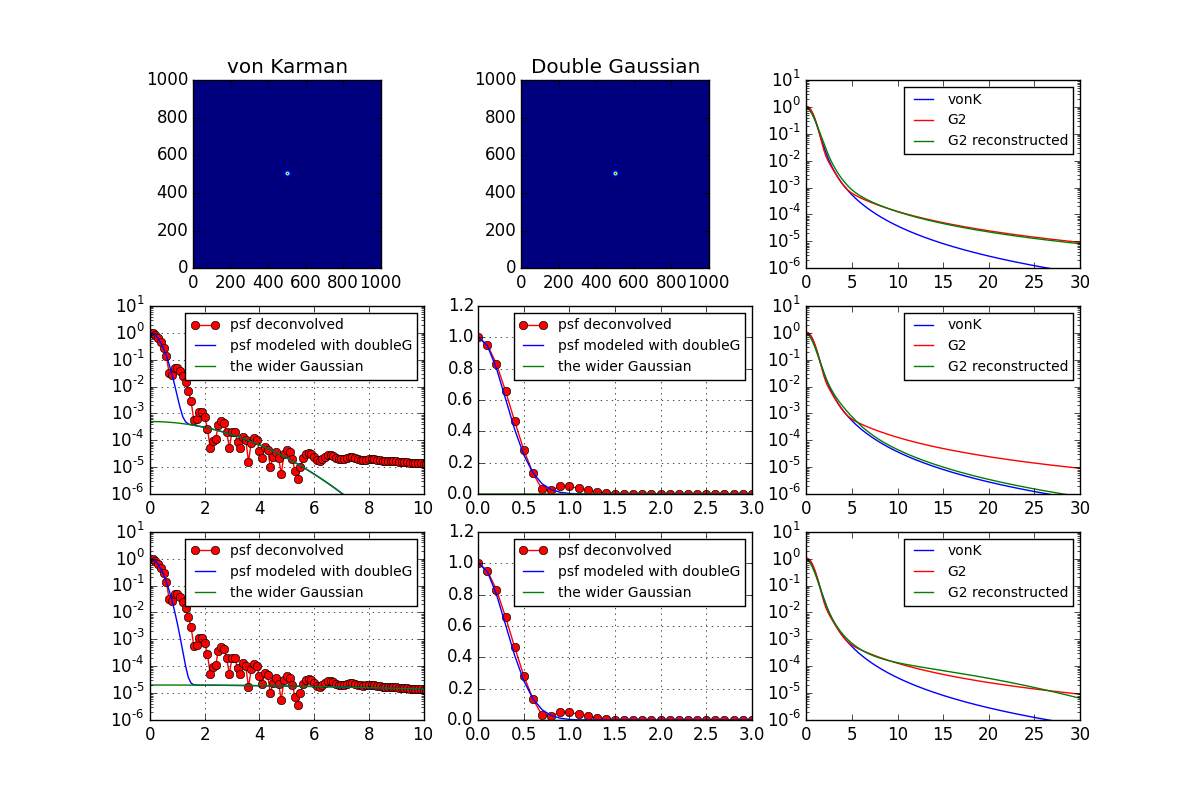
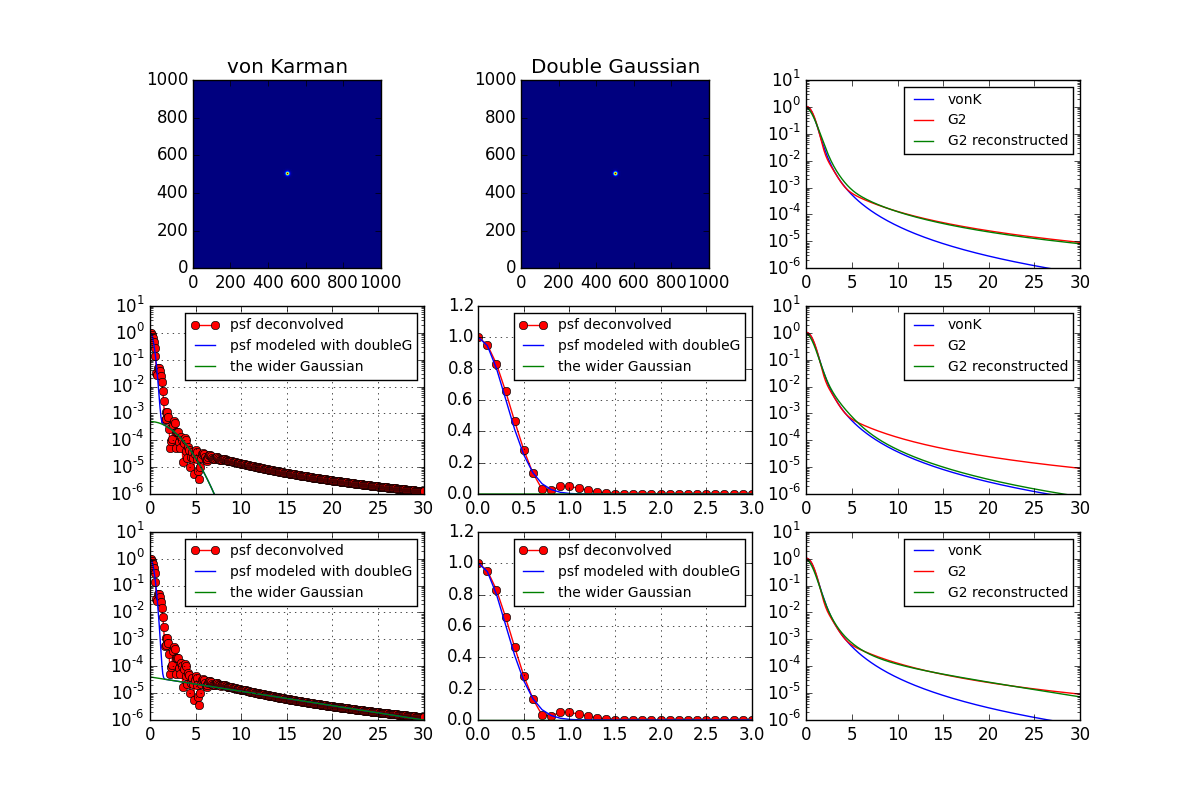
deconvVK.py: wide G -> log(y)=ax+b

diff --git a/analysis/source/deconvVK.py b/analysis/source/deconvVK.py
@@ -72,12 +72,25 @@ for ip in range(2):
     if ip == 0:
         A1=5e-4
         sigma1 = 2
+        G1 = A1*np.exp(-x*x/2/sigma1**2)
+        G12d = A1*np.exp(-(xm*xm+ym*ym)/2/sigma1**2)
     else:
-        A1=2e-5
-        sigma1 = 12
-    G1 = A1*np.exp(-x*x/2/sigma1**2)
+        #A1=1.2e-5
+        #sigma1 = 1200
+        #G1 = A1*np.exp(-x*x/2/sigma1**2)
+        #G12d = A1*np.exp(-(xm*xm+ym*ym)/2/sigma1**2)
+
+        #A1=4e-5
+        #G1 = A1-A1*(0.99)/20*x
+        #G12d = A1-A1*(0.99)/20*np.sqrt(xm*xm+ym*ym)
+        #G12d[G12d<0]=0
+        
+        A1=4e-5
+        A1=np.log10(A1)
+        G1=10**(A1-(A1-(-6))/30*x)
+        G12d = 10**(A1-(A1-(-6))/30*np.sqrt(xm*xm+ym*ym))
+        
     g = np.exp(-x*x/2/sigma**2)+G1
-    G12d = A1*np.exp(-(xm*xm+ym*ym)/2/sigma1**2)
     g2d = np.exp(-(xm*xm+ym*ym)/2/sigma**2)+G12d
 
     #convolve back and check
@@ -90,7 +103,7 @@ for ip in range(2):
     ax1[ip+1, 0].semilogy(x, psfN[500, 500:],'-ro',label='psf deconvolved')
     ax1[ip+1, 0].semilogy(x, g,'-b',label='psf modeled with doubleG')
     ax1[ip+1, 0].semilogy(x, G1,'-g',label='the wider Gaussian')
-    ax1[ip+1, 0].set_xlim(0, 10)
+    ax1[ip+1, 0].set_xlim(0, 30)
     ax1[ip+1, 0].set_ylim(1e-6, 10)
     ax1[ip+1, 0].grid()
     ax1[ip+1, 0].legend(loc="upper right", fontsize=10)
